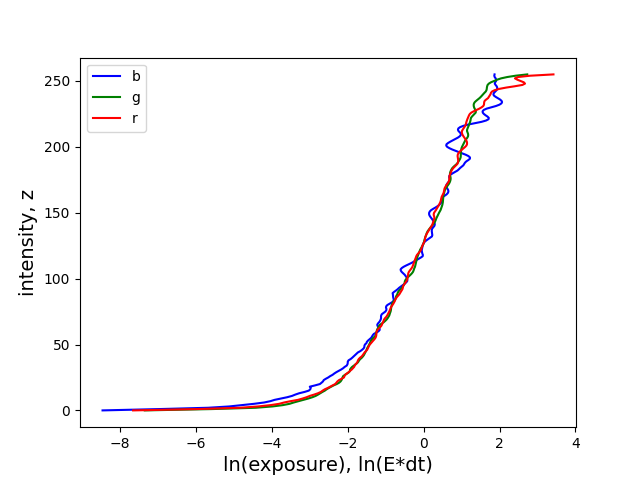
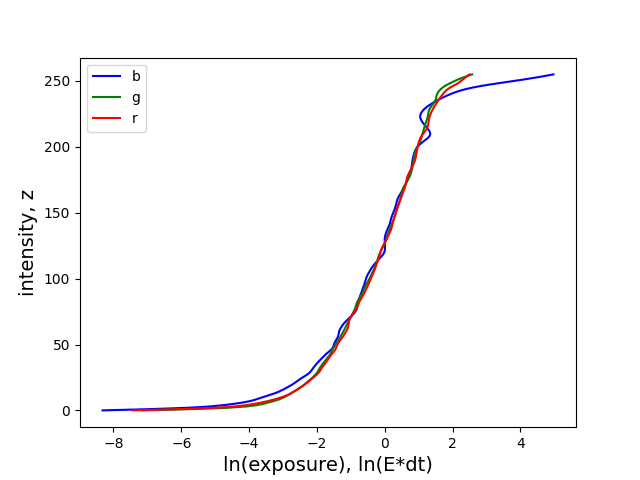
update

diff --git a/proj1/main.py b/proj1/main.py
@@ -21,9 +21,9 @@ photo_list = lib.read_photoes(file_dir=config.input_dir, file_num=config.image_n
 picked_pixels_b = lib.pick_pixels(photo_list, channel=0, number_picked_pixels=400)
 picked_pixels_g = lib.pick_pixels(photo_list, channel=1, number_picked_pixels=400)
 picked_pixels_r = lib.pick_pixels(photo_list, channel=2, number_picked_pixels=400)
-g_b = lib.solve_debevec(photo_list, picked_pixels_b, channel=0, L=20)
-g_g = lib.solve_debevec(photo_list, picked_pixels_g, channel=1, L=20)
-g_r = lib.solve_debevec(photo_list, picked_pixels_r, channel=2, L=20)
+g_b = lib.solve_debevec(photo_list, picked_pixels_b, channel=0, L=400)
+g_g = lib.solve_debevec(photo_list, picked_pixels_g, channel=1, L=400)
+g_r = lib.solve_debevec(photo_list, picked_pixels_r, channel=2, L=400)
 
 # test
 xpoints = np.array(range(256))
@@ -47,7 +47,7 @@ cv2.imwrite(destination_dir + "/hdr.hdr", irradiance)
 for a in [0.18, 0.3, 0.4, 0.5, 0.75]:
 	for L_white in [0.5, 1, 1.5, 3, inf]:
 		lib.reinhard_global_tone_map(irradiance_b, irradiance_g, irradiance_r, a=a, sigma=0.00000001, L_white=L_white, 
-									destination=destination_dir + "/tone_mapped_a={}_white={}.png".format(str(a), L_white))
+									destination=destination_dir + "/tone_mapped_a{}_white{}.png".format(str(a), L_white))
 
 
 

diff --git a/proj1/README.md b/proj1/README.md
@@ -66,12 +66,12 @@ Below are the 10 input images with different exposure time.
 | ![img](https://github.com/wayne0419/NTUVFX/blob/main/proj1/Images/night_street/9.jpg?raw=true) |
 
 The parameter I choose to use 
-- lambda = 20
+- lambda = 400
 - weighting function : linear-hat
 
 The below plot shows the mapping function g I get for each channel. Can see they are quite matching too each other.
 
-![img](https://github.com/wayne0419/NTUVFX/blob/main/proj1/Test_result/night_street_hdr/g_function_L20.png?raw=true)
+![img](https://github.com/wayne0419/NTUVFX/blob/main/proj1/Test_result/night_street_hdr/g_function_L400.png?raw=true)
 
 Tone mapped result (Reinhard's Method global operaotr, with a=0.5, L_white=inf)：
 
